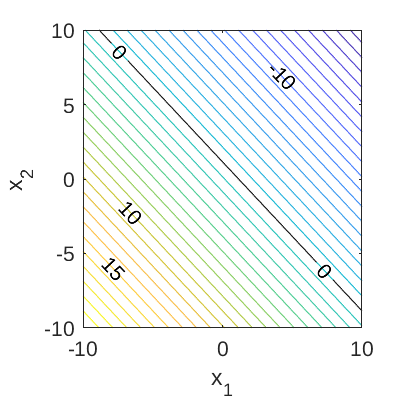
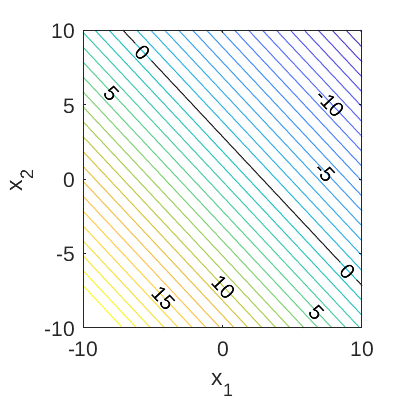
Update high-dimensional example function description

Changed region(s): [[0.21, 0.06, 0.9, 0.84]]

diff --git a/test-functions/highDimensional/highDimensionalBenchmark.m b/test-functions/highDimensional/highDimensionalBenchmark.m
@@ -1,0 +1,48 @@
+%%%%%%%%%%%%%%%%%%%%%%%%%%%%%%%%%%%%%%%%%%%%%%%%%%%%%%%%%%%%%%%%%%%%%%%%%%%
+% HIGH DIMENSIONAL EXAMPLE FUNCTION - EXAMPLE
+%%%%%%%%%%%%%%%%%%%%%%%%%%%%%%%%%%%%%%%%%%%%%%%%%%%%%%%%%%%%%%%%%%%%%%%%%%%
+%
+
+%% Initialize UQLab
+clearvars
+uqlab
+
+%% Create Model object
+% Define model using function handle:
+highDimensional = @(X) (size(X,2) + 3 * 0.2 * sqrt(size(X,2))) - sum(X,2);
+mopts.Name = 'HighDimensionalModel';
+mopts.mHandle = highDimensional;
+myModel = uq_createModel(mopts);
+
+%% Create Input Object
+% Define the input:
+
+% Number of dimensions
+N = [50 100 200];
+
+Pf_est = zeros(1, size(N,2));
+CoV_est = zeros(1, size(N,2));
+
+for i=1:size(N,2)
+    for k = 1:N(i)
+        InputOpts.Marginals(k).Name = ['X_' num2str(k)];
+        InputOpts.Marginals(k).Type = 'Lognormal';
+        InputOpts.Marginals(k).Moments = [1, 0.2];
+    end
+    
+    myInput = uq_createInput(InputOpts);
+    
+    rng(100,'twister')
+    MCOptions.Type = 'Reliability';
+    MCOptions.Method = 'MCS';
+    
+    % Specify the maximum sample size
+    MCOptions.Simulation.MaxSampleSize = 1e6;
+    
+    %  Run the Monte Carlo analysis
+    MCAnalysis = uq_createAnalysis(MCOptions);
+
+    Pf_est(i) = MCAnalysis.Results.Pf;
+    CoV_est(i) = MCAnalysis.Results.CoV;
+    
+end

diff --git a/test-functions/highDimensional/highDimensionalPlot.m b/test-functions/highDimensional/highDimensionalPlot.m
@@ -1,5 +1,5 @@
 %% Specify the high-dimensional example function (M = 2)
-highDimensional = @(X,Y,C) (2 - 3 * C * sqrt(2)) - X - Y;
+highDimensional = @(X,Y,C) (2 + 3 * C * sqrt(2)) - X - Y;
 
 % Input mesh
 [X, Y] = meshgrid(-10:1:10, -10:1:10);
@@ -34,7 +34,7 @@ hold on
 xlabel('x_1')
 ylabel('x_2')
 contour(X, Y, Z, [0,0], 'Color', 'k', 'ShowText', 'on')
-contour(X, Y, Z, [-15, -10, 10, 15], 'ShowText', 'on')
+contour(X, Y, Z, [-15, -10, -5, 5, 10, 15], 'ShowText', 'on')
 hold off
 
 saveas(gcf, 'highDimensionalContour.png')
